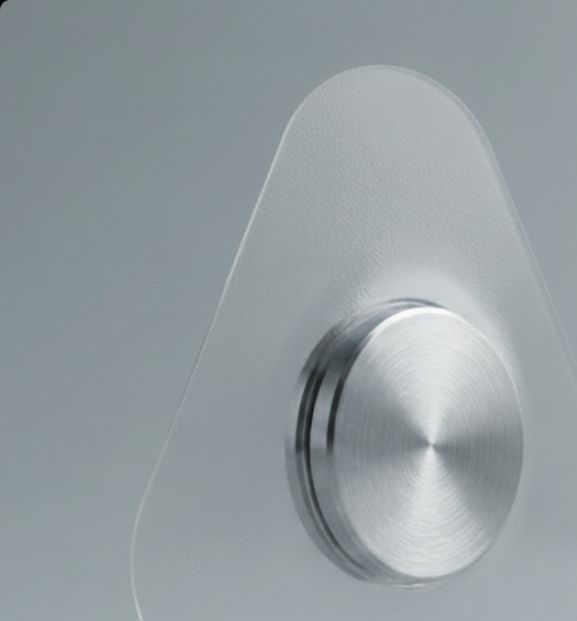
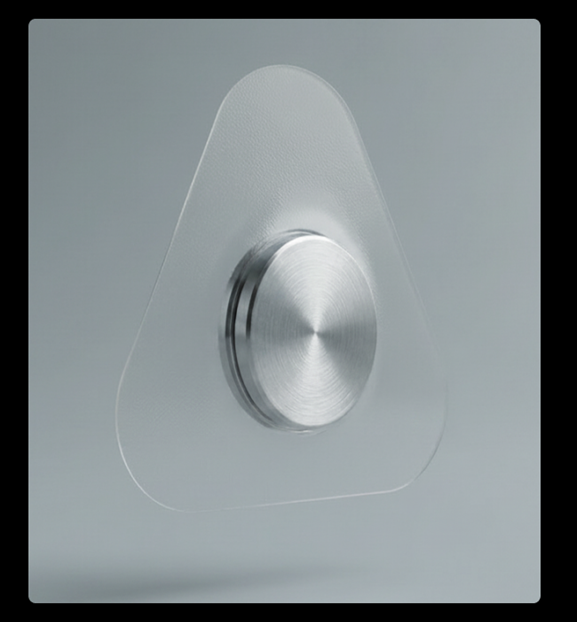
Fix homepage product image fit

diff --git a/styles.css b/styles.css
@@ -548,13 +548,14 @@ img {
   grid-column: 2;
   grid-row: 1 / 3;
   align-self: start;
+  justify-self: center;
+  width: min(100%, 36rem);
   margin: 0;
-  display: grid;
-  justify-items: center;
 }
 
 .home-product__figure img {
-  width: min(100%, 34.25rem);
+  width: 100%;
+  height: auto;
   border-radius: 0.5rem;
 }
 
